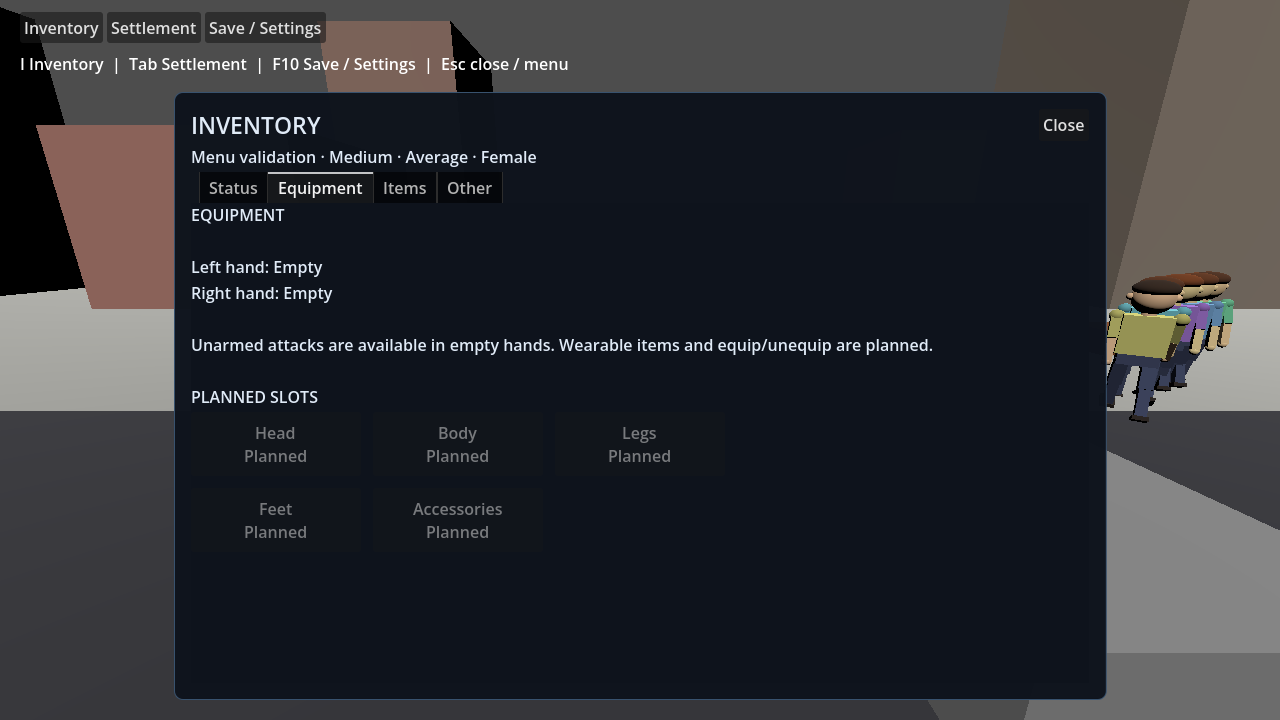
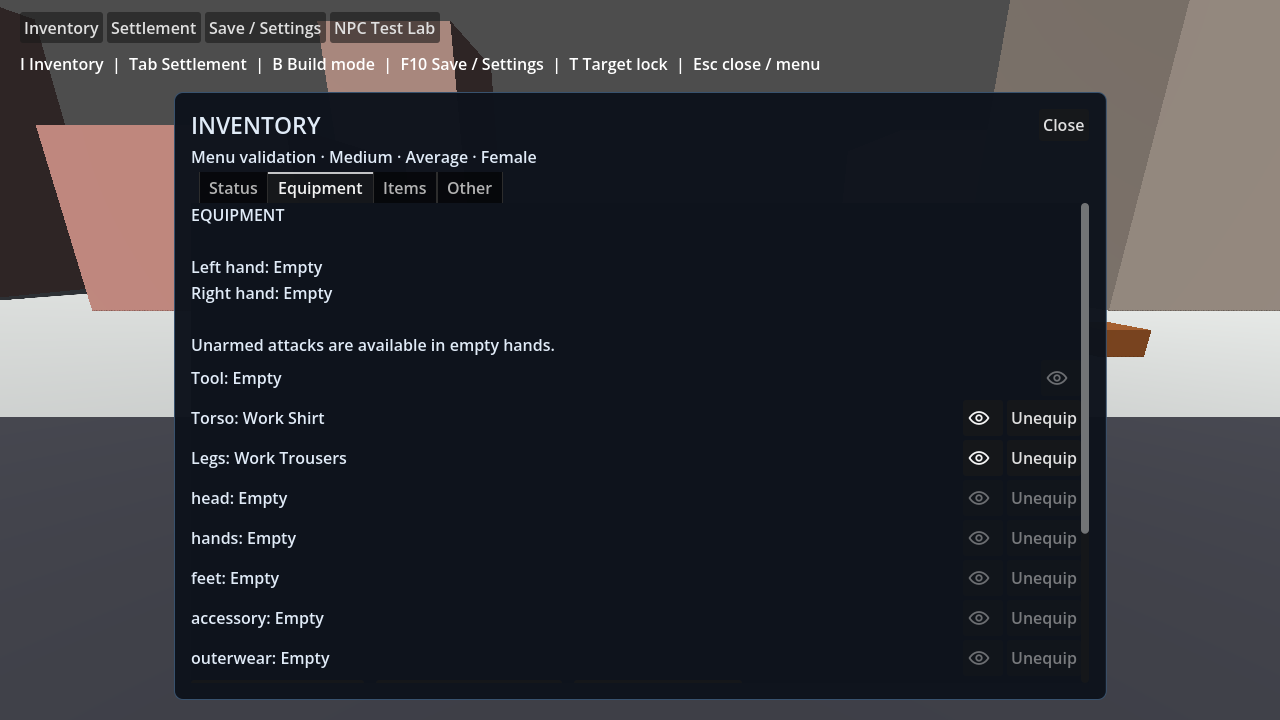
Allow every wearable slot to unequip creation garments

diff --git a/game/scripts/PlayerMenus.cs b/game/scripts/PlayerMenus.cs
@@ -35,6 +35,7 @@ public partial class Main
 	private Texture2D _eyeClosedIcon = null!;
 	private readonly Dictionary<string, Label> _equipmentVisibilityLabels = new(StringComparer.Ordinal);
 	private readonly Dictionary<string, Button> _equipmentVisibilityButtons = new(StringComparer.Ordinal);
+	private readonly Dictionary<string, Button> _equipmentUnequipButtons = new(StringComparer.Ordinal);
 	private (string Action, bool Controller)? _captureBinding;
 
 	private void ConfigurePlayerMenus()
@@ -109,12 +110,6 @@ public partial class Main
 			ShowActionFeedback(new PlayerEquipmentService(_world).Equip(id).Message);
 			UpdatePlayerMenuContents();
 		});
-		foreach (var slot in new[] { EquipmentSlotIds.Head, EquipmentSlotIds.Hands, EquipmentSlotIds.Feet, EquipmentSlotIds.Accessory, EquipmentSlotIds.Outerwear })
-			AddMenuButton((Control)_equipmentSummary.GetParent(), "Unequip " + slot, () =>
-			{
-				ShowActionFeedback(new PlayerEquipmentService(_world).Unequip(slot).Message);
-				UpdatePlayerMenuContents();
-			});
 		var toolActions = new HBoxContainer { Name = "ToolActions" };
 		_equipmentSummary.GetParent().AddChild(toolActions);
 		AddMenuButton(toolActions, "Craft axe", CraftPlayerAxe);
@@ -502,6 +497,7 @@ public partial class Main
 		{
 			_characterIdentity.Text = "No player character in this save.";
 			_characterStatus.Text = _characterAttributes.Text = _equipmentSummary.Text = _carriedItems.Text = _otherCharacterInfo.Text = "Unavailable.";
+			foreach (var button in _equipmentUnequipButtons.Values) button.Disabled = true;
 			return;
 		}
 		var profile = _world.PlayerProfile!;
@@ -577,6 +573,68 @@ public partial class Main
 			throw new InvalidOperationException("Clicking the closed torso eye must restore only its visual.");
 	}
 
+	internal void ValidateCreatedEquipmentMenuForTesting()
+	{
+		var originalWorld = _world;
+		try
+		{
+			foreach (var sex in new[] { PlayerSex.Male, PlayerSex.Female })
+			{
+				var torso = PlayerAppearanceCatalog.Default.ForSlot(EquipmentSlotIds.Torso, sex)
+					.First(item => item.Id != ItemIds.WorkShirt && item.Id != ItemIds.DeluxeBunnySuitTop).Id;
+				var legs = PlayerAppearanceCatalog.Default.ForSlot(EquipmentSlotIds.Legs, sex)
+					.First(item => item.Id != ItemIds.WorkTrousers && item.Id != ItemIds.DeluxeBunnySuitLegs).Id;
+				var profile = PlayerCharacterProfile.Create($"Created equipment {sex}", sex: sex,
+					appearance: PlayerAppearance.Bare with { Torso = torso, Legs = legs });
+				var session = NewGameSession.Create(_speciesCatalog, profile);
+				_world = session.World;
+				var player = session.Player;
+				_playerCharacter.BindPlayer(player.Id, profile,
+					(float)_speciesCatalog.GetRequired(player.SpeciesId).MovementSpeed);
+				UpdatePlayerMenuContents();
+				if (player.Inventory.Keys.Any(ItemCatalog.IsWearable)
+					|| !_workShirtButton.Disabled || !_workTrousersButton.Disabled
+					|| !_deluxeBunnyTopButton.Disabled || !_deluxeBunnyLegsButton.Disabled)
+					throw new InvalidOperationException("Explicit creation must exercise equipment without spare legacy garments.");
+				foreach (var (slot, item, otherSlot, otherItem) in new[]
+				{
+					(EquipmentSlotIds.Torso, torso, EquipmentSlotIds.Legs, legs),
+					(EquipmentSlotIds.Legs, legs, EquipmentSlotIds.Torso, torso)
+				})
+				{
+					if (!_equipmentUnequipButtons.TryGetValue(slot, out var unequip) || unequip.Disabled)
+						throw new InvalidOperationException($"Created {sex} {slot} has no usable generic unequip control.");
+					_equipmentVisibilityButtons[slot].EmitSignal(BaseButton.SignalName.Pressed);
+					unequip.EmitSignal(BaseButton.SignalName.Pressed);
+					if (player.EquippedItems.ContainsKey(slot) || player.HiddenEquipmentSlots.Contains(slot)
+						|| player.Inventory.GetValueOrDefault(item) != 1 || !unequip.Disabled
+						|| !_equipmentVisibilityButtons[slot].Disabled
+						|| !_carriedItems.Text.Contains(FormatItemName(item), StringComparison.Ordinal)
+						|| _playerCharacter.IsClothingVisibleForTesting(item)
+						|| player.EquippedItems.GetValueOrDefault(otherSlot) != otherItem
+						|| !_playerCharacter.IsClothingVisibleForTesting(otherItem))
+						throw new InvalidOperationException($"Unequipping created {sex} {slot} lost an item or affected the other slot.");
+					var index = Enumerable.Range(0, _carriedWardrobeChoice.ItemCount)
+						.Single(i => _carriedWardrobeChoice.GetItemMetadata(i).AsString() == item);
+					_carriedWardrobeChoice.Select(index);
+					_equipCarriedWardrobe.EmitSignal(BaseButton.SignalName.Pressed);
+					if (player.EquippedItems.GetValueOrDefault(slot) != item
+						|| player.Inventory.GetValueOrDefault(item) != 0 || unequip.Disabled
+						|| !player.IsEquipmentVisible(slot) || !_playerCharacter.IsClothingVisibleForTesting(item))
+						throw new InvalidOperationException($"Created {sex} {slot} could not be re-equipped from carried Items.");
+				}
+			}
+		}
+		finally
+		{
+			_world = originalWorld;
+			var player = _world.Entities.Single(entity => entity.Id == _world.PlayerEntityId);
+			_playerCharacter.BindPlayer(player.Id, _world.PlayerProfile!,
+				(float)_speciesCatalog.GetRequired(player.SpeciesId).MovementSpeed);
+			UpdatePlayerMenuContents();
+		}
+	}
+
 	private static void SetEquipmentButton(
 		Button button,
 		string slotName,
@@ -606,6 +664,17 @@ public partial class Main
 		visibilityButton.Pressed += () => TogglePlayerEquipmentVisibility(slotId);
 		row.AddChild(itemLabel);
 		row.AddChild(visibilityButton);
+		if (slotId != EquipmentSlotIds.Tool)
+		{
+			var unequipButton = AddMenuButton(row, "Unequip", () =>
+			{
+				ShowActionFeedback(new PlayerEquipmentService(_world).Unequip(slotId).Message);
+				UpdatePlayerMenuContents();
+			});
+			unequipButton.Name = $"{slotId}UnequipButton";
+			unequipButton.TooltipText = $"Return the equipped {label.ToLowerInvariant()} item to carried Items";
+			_equipmentUnequipButtons.Add(slotId, unequipButton);
+		}
 		parent.AddChild(row);
 		_equipmentVisibilityLabels.Add(slotId, itemLabel);
 		_equipmentVisibilityButtons.Add(slotId, visibilityButton);
@@ -618,6 +687,8 @@ public partial class Main
 			return;
 		itemLabel.Text = $"{label}: {FormatItemName(itemId)}";
 		visibilityButton.Disabled = itemId is null;
+		if (_equipmentUnequipButtons.TryGetValue(slotId, out var unequipButton))
+			unequipButton.Disabled = itemId is null;
 		visibilityButton.ButtonPressed = !isVisible;
 		visibilityButton.Icon = isVisible ? _eyeOpenIcon : _eyeClosedIcon;
 		visibilityButton.TooltipText = itemId is null

diff --git a/game/scripts/PlayerWorkwearValidation.cs b/game/scripts/PlayerWorkwearValidation.cs
@@ -15,6 +15,7 @@ internal static class PlayerWorkwearValidation
             character.SetPhysicsProcess(false);
             character.SetProcessUnhandledInput(false);
             main.ValidateEquipmentVisibilityMenuForTesting();
+            main.ValidateCreatedEquipmentMenuForTesting();
 
             foreach (var (sex, expectedPath) in new[]
             {
@@ -222,7 +223,7 @@ internal static class PlayerWorkwearValidation
 
             foreach (var sex in new[] { PlayerSex.Male, PlayerSex.Female })
                 await ValidateIndependentEquipment(main, character, speciesCatalog, sex);
-            GD.Print("PLAYER WORKWEAR VALIDATION PASSED: male/female Blender bases, imported animations, independent boots/gloves/jackets, workwear and Deluxe Bunny outfit visibility, equipment swaps and save/load.");
+            GD.Print("PLAYER WORKWEAR VALIDATION PASSED: male/female Blender bases, imported animations, creation-item menu unequip/re-equip, independent boots/gloves/jackets, workwear and Deluxe Bunny outfit visibility, equipment swaps and save/load.");
             main.GetTree().Quit();
         }
         catch (Exception exception)

diff --git a/docs/PLAYER_MENUS.md b/docs/PLAYER_MENUS.md
@@ -22,7 +22,7 @@ Inventory is a read-only projection of the current World player, resolved by ID 
 
 The Equipment tab projects the World player's equipment slots and their current items. The matching Items tab contains carried items that are not equipped, including clothing. An eye button on each occupied supported slot hides or shows only that slot's visual; it does not change equipment, inventory, or gameplay effects. Empty slots have disabled eye buttons. Visibility entered the entity snapshot in schema 25; older snapshots restore equipped items as visible. See D069.
 
-Head, hands, feet, accessory and outerwear slots now have concrete wearable definitions, shared-skeleton visuals, unequip controls and independent eye toggles. Outerwear changes a jacket without replacing its torso shirt. The carried wardrobe selector equips compatible owned items. Creation uses the same sex-filtered catalogue; see [character creation](CHARACTER_CREATION_AND_BODY.md). Hair is a profile appearance choice rather than an inventory item.
+Torso, legs, head, hands, feet, accessory and outerwear slots have concrete wearable definitions, shared-skeleton visuals, generic unequip controls and independent eye toggles. Each wearable row returns its current item to carried Items regardless of which garment was selected during creation; empty rows disable Unequip. Outerwear changes a jacket without replacing its torso shirt. The carried wardrobe selector equips compatible owned items. Creation uses the same sex-filtered catalogue; see [character creation](CHARACTER_CREATION_AND_BODY.md). Hair is a profile appearance choice rather than an inventory item.
 
 Audio and Display are disabled **Planned** settings tabs with tooltips. Add real settings inside them when those capabilities are implemented. Other contains working skills and world information; it can receive future character information without crowding Status. Do not add speculative quest/crafting controls or enable placeholders before their acceptance criteria and systems exist.
 

diff --git a/docs/PLAYER_APPEARANCE_VALIDATION.md b/docs/PLAYER_APPEARANCE_VALIDATION.md
@@ -20,6 +20,7 @@ Coverage includes:
 
 - Body-compatible IDs, invalid selections, default-off anatomy and schema-25 migration.
 - Independent boots, gloves, torso and jacket equipment, atomic swaps, carried items and hidden-slot persistence.
+- Real Equipment menu buttons unequip and re-equip non-legacy torso/leg creation selections for both sexes without spare demo clothing. Unequipping clears the slot's hidden override, returns the item to Items and leaves the other garment visible; empty controls disable.
 - Every registered wearable presentation attaching to the single player skeleton.
 - Actual world-space hand/eye anchors, common actions and transferred facial movement.
 - Combined visible-item coverage, restoration after hiding/unequipping, and material isolation between characters.
@@ -63,3 +64,5 @@ The source body detail is retained; runtime LODs and a population-performance op
 - Graphical validation captured all 116 variants plus front/side/back, menus, loose garments and layered shirt/jacket views. See [inspection images](evidence/player-creation/).
 
 Godot 4.7.2 emitted ObjectDB/RID cleanup warnings at shutdown. Required pass markers and successful process exits were checked separately; these runs are not described as warning-free engine shutdowns.
+
+Review follow-up: reproduced the missing generic torso/leg unequip action with a failing menu regression, then passed the expanded `--validate-player-workwear` scenario for both bodies after the fix. The Debug build had zero warnings/errors; `--validate-menus` passed headless and rendered. The [updated Equipment capture](evidence/player-menus/equipment.png) shows per-slot Unequip controls beside the eye toggles, with empty-slot controls disabled.
